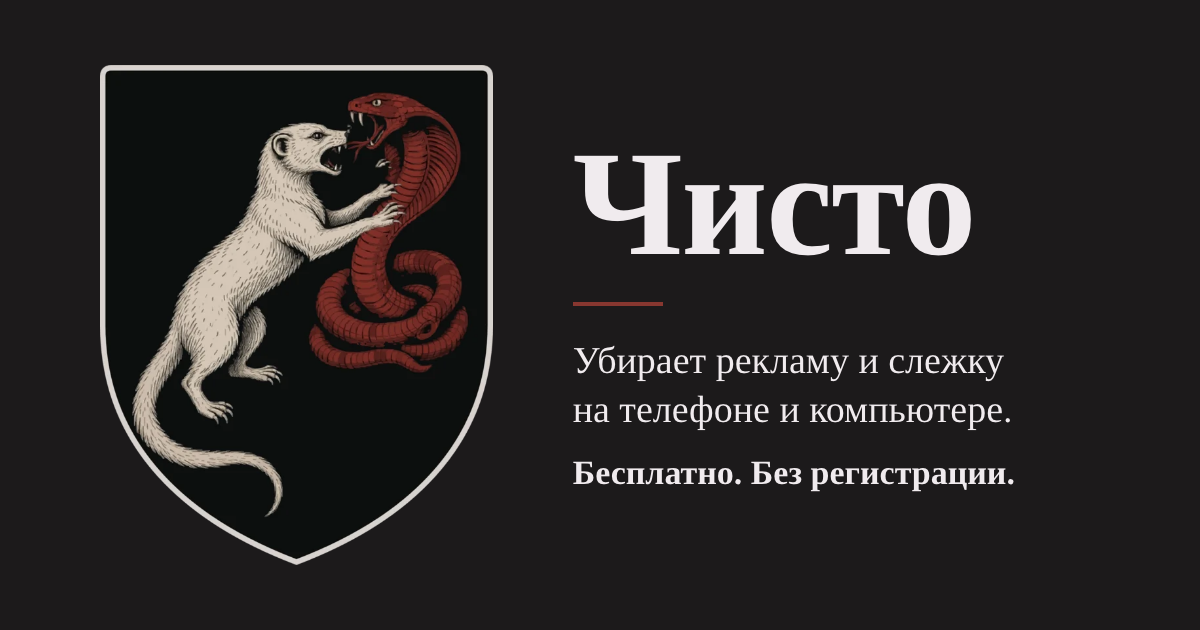
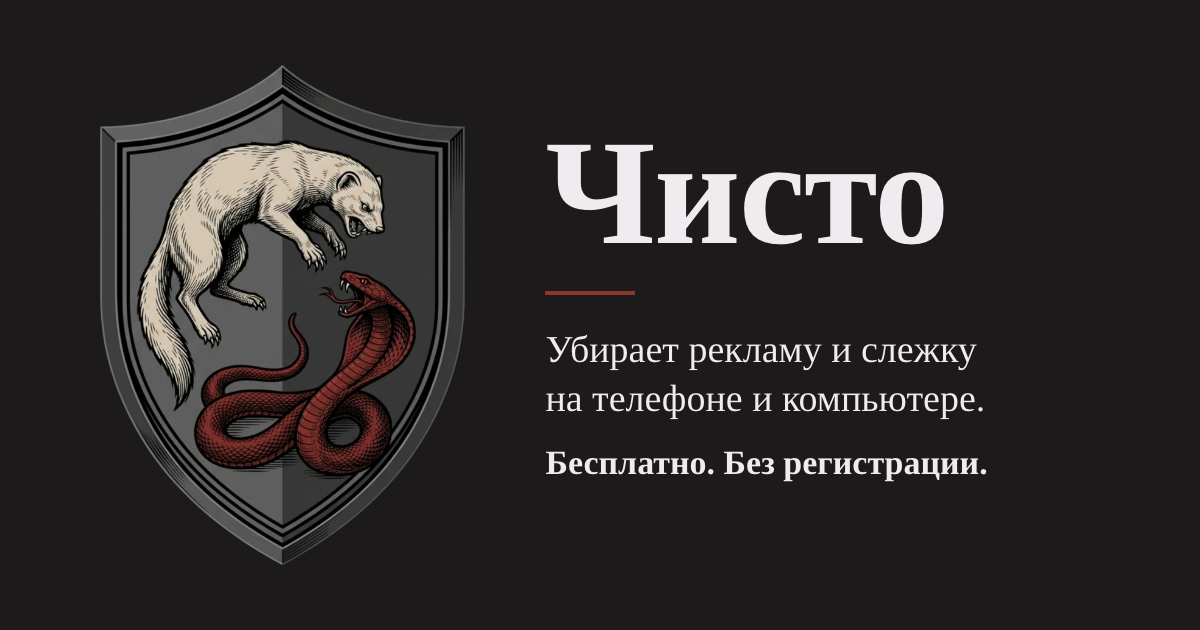
Бот: карточка в инлайне со щитами и гербом; картинка для ссылок с новым гербом

diff --git a/cloudflare/src/bot.js b/cloudflare/src/bot.js
@@ -91,13 +91,22 @@ export function handleUpdate(update, site, botName = '') {
   const iq = update.inline_query;
   if (iq) {
     out.push({ method: 'answerInlineQuery', body: {
-      inline_query_id: iq.id, cache_time: 3600, is_personal: false,
+      inline_query_id: iq.id, cache_time: 300, is_personal: false,
       results: [{
         type: 'article', id: 'chisto',
-        title: 'Чисто — убрать рекламу',
-        description: 'Бесплатно, без регистрации. iPhone, Android, компьютер.',
-        input_message_content: { message_text: `Убирает рекламу и трекеры, бесплатно и без регистрации: ${site}` },
-        reply_markup: { inline_keyboard: [[{ text: 'Поставить', url: site }]] },
+        title: '🛡 Чисто — убрать рекламу',
+        description: 'Бесплатно, без регистрации. iPhone, Android, компьютер, VPN.',
+        thumbnail_url: `${site}icon.png`, thumbnail_width: 180, thumbnail_height: 180,
+        input_message_content: { message_text: [
+          '🛡 Чисто — убирает рекламу и слежку',
+          '',
+          'Бесплатно, без регистрации и аккаунта.',
+          'iPhone, Android, компьютер — и вместе с VPN.',
+          'На YouTube проматывает рекламу блогеров.',
+          '',
+          `🛡 ${site}`,
+        ].join('\n') },
+        reply_markup: { inline_keyboard: [[{ text: '🛡 Поставить', url: site }]] },
       }],
     } });
   }
